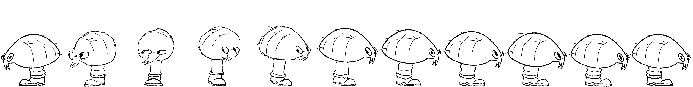
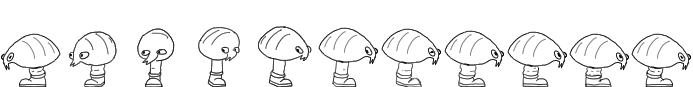
Fixed fleet (need to fix hitbox eventually)

diff --git a/Enemy.cpp b/Enemy.cpp
@@ -763,7 +763,7 @@ bool Fleet::load_media() {
    bool success = true;
 
    // Load idle
-   load_image(textures, this, 63, 87, 16, 1.0f / 20.0f, "idle", "images/enemies/Fleet/idle.png", success);
+   load_image(textures, this, 63, 87, 11, 1.0f / 20.0f, "idle", "images/enemies/Fleet/idle.png", success);
 
    // Load death
    load_image(textures, this, 63, 87, 11, 1.0f / 20.0f, "turn", "images/enemies/Fleet/turn.png", success);
@@ -810,7 +810,7 @@ void Fleet::move() {
 
          // Get a vector towards the player and apply as impulse
          if (has_collided_) {
-            if (textures["idle"].frame_ > 9) {
+            if (textures["idle"].frame_ == 1) {
                const b2Vec2 impulse = {(get_application()->get_player()->body->GetPosition().x - body->GetPosition().x) / magnitude * 1.50f, 7.0f};
 
                // Apply impulse
@@ -819,10 +819,8 @@ void Fleet::move() {
 
             // Reset textures
             textures["idle"].reset_frame = 0;
-            textures["idle"].stop_frame = 9;
          } else {
-            textures["idle"].reset_frame = 9;
-            textures["idle"].stop_frame = 9;
+            textures["idle"].reset_frame = 10;
          }
       }
    }

diff --git a/Application.cpp b/Application.cpp
@@ -554,7 +554,7 @@ void Application::main_screen() {
       // Check to see if player has reached the edge
       if (player->get_x() >= 1890) {
          app_flag_ = PLAYGROUND;
-         level_flag_ = LEVEL11;
+         level_flag_ = LEVEL14;
          game_flag_ = SETUP;
          completed_level_ = false;
          delete menu_platform_;
